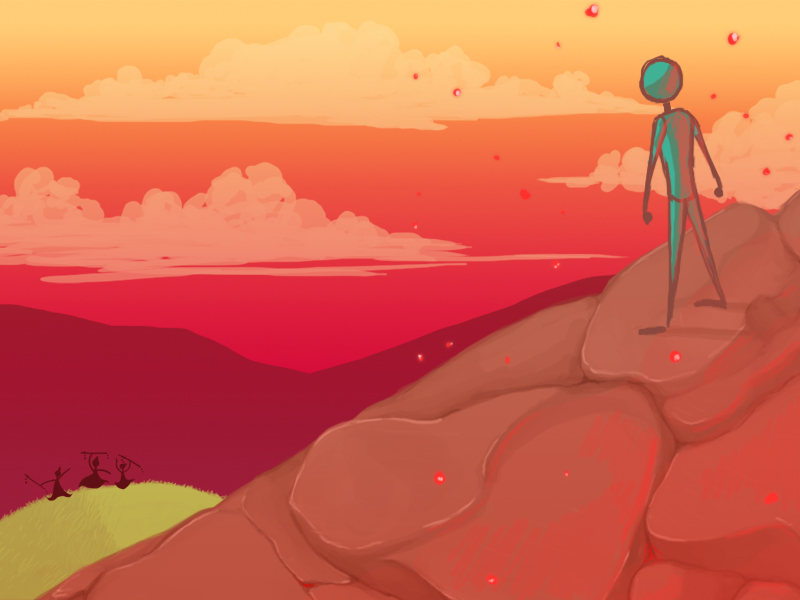
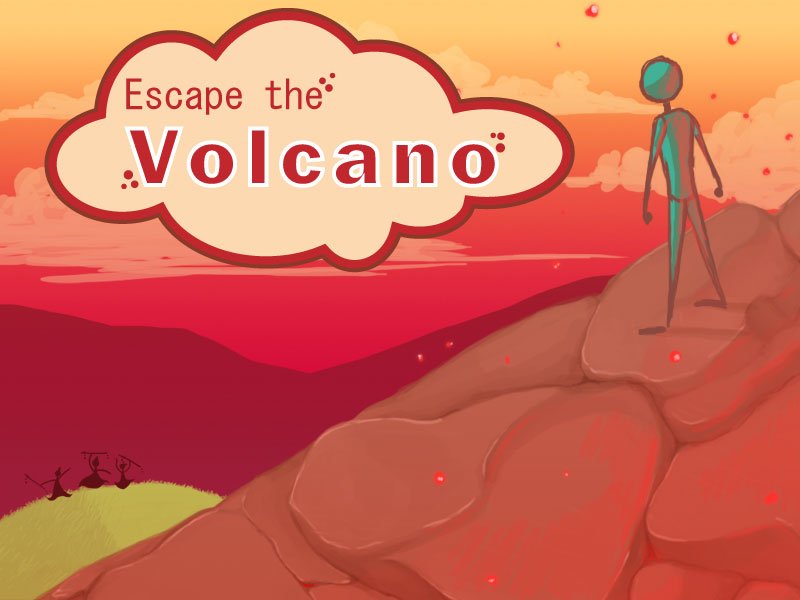
Update title art

Changed region(s): [[0.0312, 0.0, 0.7188, 0.45]]

diff --git a/js/states/mainMenu.js b/js/states/mainMenu.js
@@ -31,15 +31,6 @@ MainMenu.prototype = {
 
 		// Play!
 		game.add.button(40, game.world.centerY - 40, 'button', this.actionOnClick, this, 1, 0, 1);
-
-		// Title
-		var titleProps = {
-			font: "60px Arial",
-			fill: "#fff",
-			align: "center"
-		};
-		var title = game.add.text(50, game.world.centerY / 4, "Escape the Volcano", titleProps);
-		title.setShadow(3, 3, 'rgba(0,0,0,0.5)', 5);
 	},
 
 	actionOnClick: function(){
